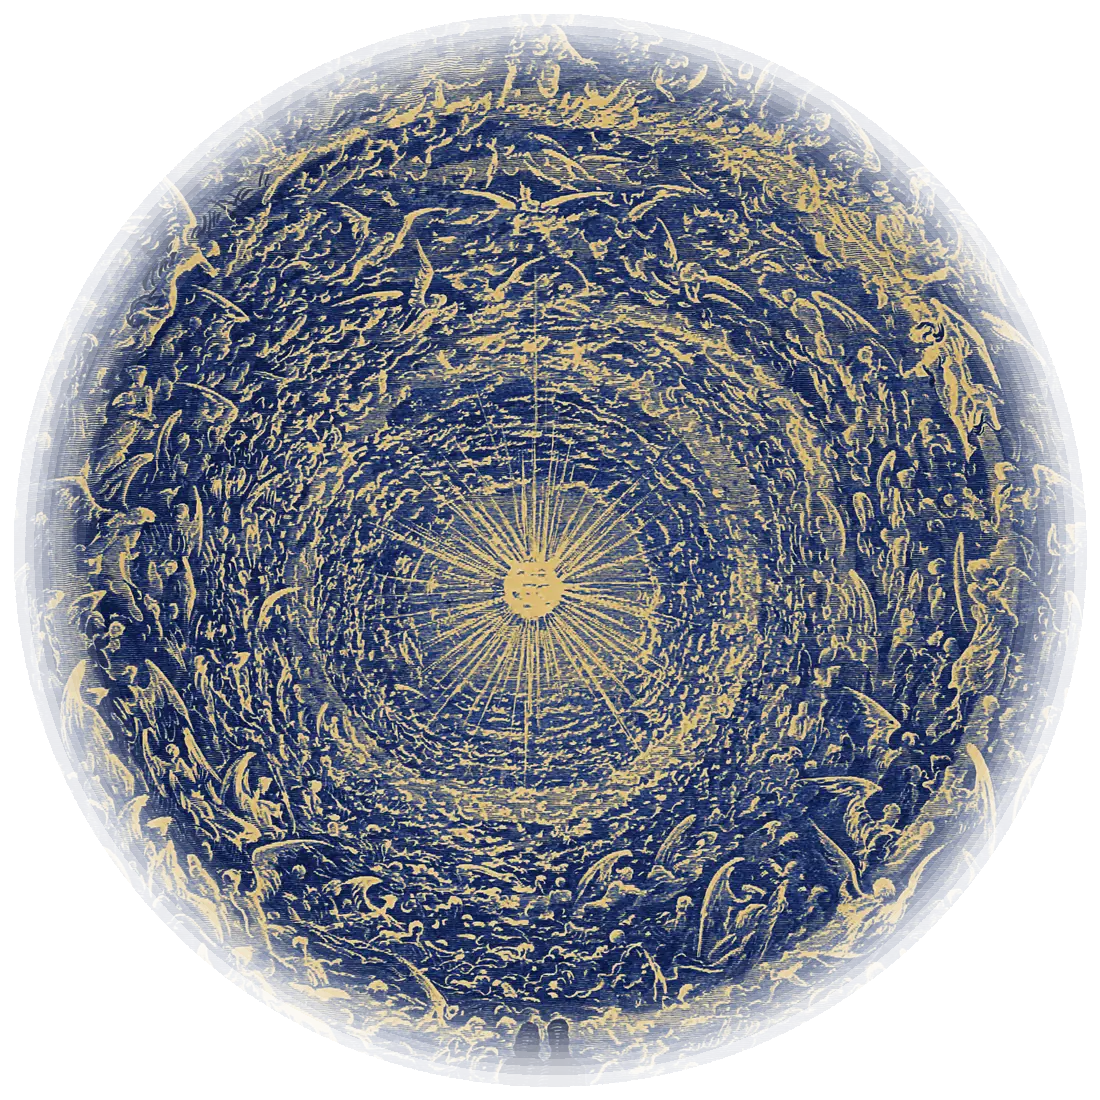
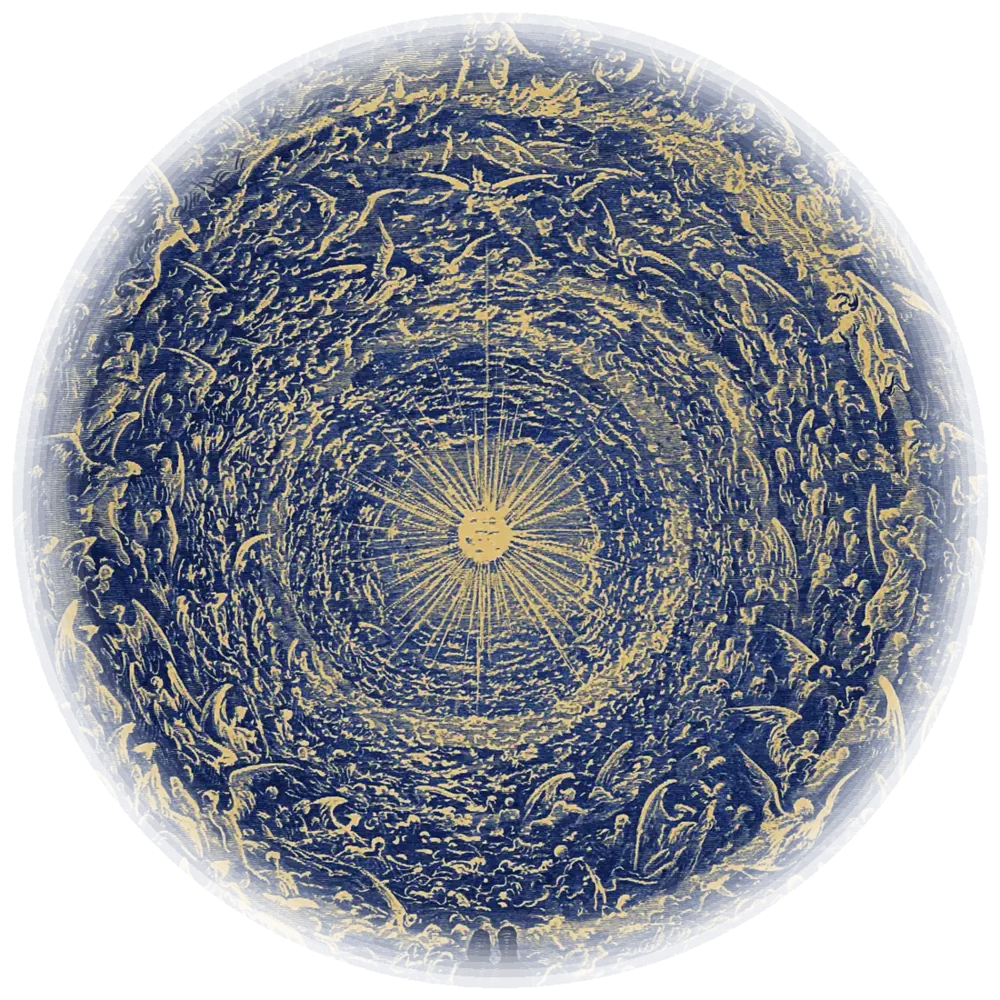
perf: shrink oversized landing images and shorten hero alt text

diff --git a/components/landing/art.ts b/components/landing/art.ts
@@ -11,11 +11,11 @@ const art = (name: string, width: number, height: number, alt: string): Art => (
 
 export const EMPYREAN = art(
   "empyrean",
-  1800,
-  2247,
-  "Gustave Doré’s engraving of the Empyrean: countless angels wheel in a vast rose around a point of light, printed here in gold on deep blue.",
+  1400,
+  1748,
+  "Gustave Doré’s engraving of the Empyrean: countless angels wheel in a vast rose around a point of light, in gold on blue.",
 );
-export const EMPYREAN_ROSE = art("empyrean-rose", 1100, 1100, "");
+export const EMPYREAN_ROSE = art("empyrean-rose", 1000, 1000, "");
 
 export const CORONATION_FRESCO = art(
   "coronation",
@@ -25,14 +25,14 @@ export const CORONATION_FRESCO = art(
 );
 export const DOMINIC = art(
   "dominic",
-  1100,
-  1569,
+  1000,
+  1426,
   "Saint Dominic, in Fra Angelico’s fresco, lifting his eyes toward the Cross.",
 );
 export const ANNUNCIATION_ALTARPIECE = art(
   "annunciation-prado",
-  2600,
-  1633,
+  1800,
+  1131,
   "Fra Angelico’s Annunciation: the angel Gabriel bows before Mary beneath a blue vault scattered with gold stars.",
 );
 export const VIRGIN = art(
@@ -43,14 +43,14 @@ export const VIRGIN = art(
 );
 export const FRANCIS = art(
   "francis",
-  1100,
-  1337,
+  1000,
+  1215,
   "Giotto’s Saint Francis on Mount La Verna, kneeling before a seraph against a gold ground.",
 );
 export const CORONATION_PANEL = art(
   "coronation-a",
-  1800,
-  1282,
+  1500,
+  1068,
   "Fra Angelico’s panel of Christ crowning Mary, her blue mantle spread on a gold ground.",
 );
 export const BLESSING = art(
@@ -87,7 +87,7 @@ export const MYSTERY_ART: Record<MysterySetId, [Art, Art, Art, Art, Art]> = {
     art("resurrection", 804, 690, "Giotto: the risen Jesus with Mary Magdalene beside the empty tomb."),
     art("ascension", 632, 576, "Giotto: Jesus rising into a blue heaven above the apostles and Mary."),
     art("pentecost", 673, 592, "Giotto: the apostles gathered under Gothic arches as the Spirit descends."),
-    art("assumption", 1100, 1800, "Fra Angelico: Mary carried into heaven among choirs of angels."),
+    art("assumption", 1000, 1636, "Fra Angelico: Mary carried into heaven among choirs of angels."),
     art("coronation", 1800, 2130, "Fra Angelico: Christ crowning Mary, with saints kneeling below."),
   ],
 };
